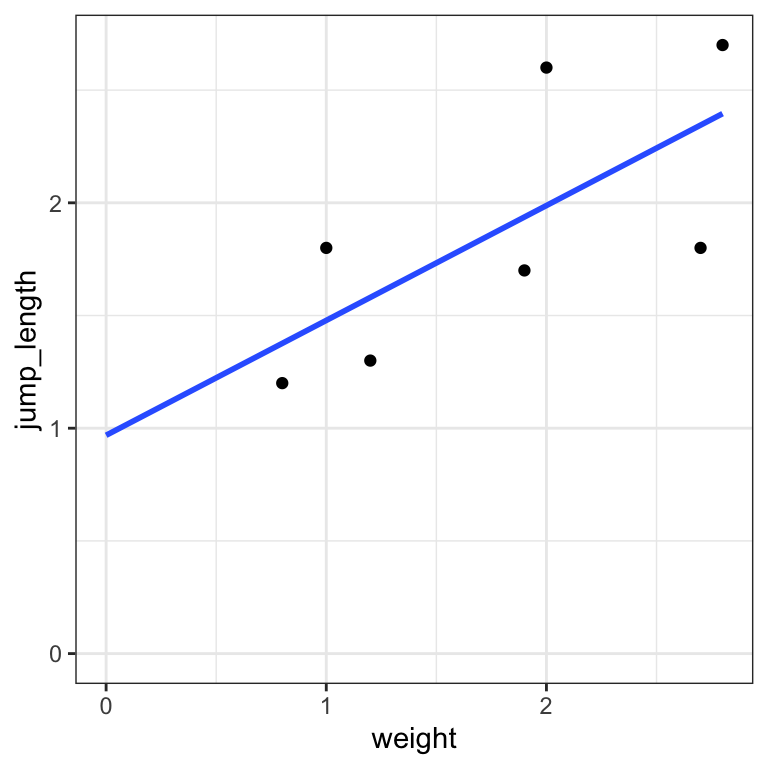
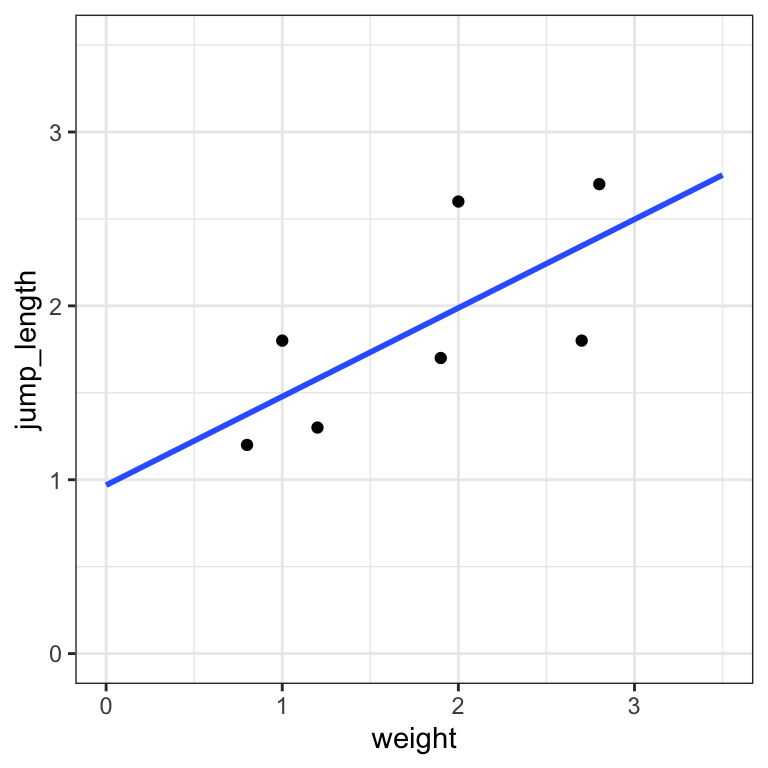
added first text to linear regression

diff --git a/docs/stat-linear-reg-basic.html b/docs/stat-linear-reg-basic.html
@@ -114,7 +114,7 @@ code span.wa { color: #60a0b0; font-weight: bold; font-style: italic; } /* Warni
   }
 }</script><script src="https://cdn.jsdelivr.net/npm/mathjax@3/es5/tex-chtml-full.js" type="text/javascript"></script>
 </head>
-<body class="nav-sidebar floating">
+<body class="nav-sidebar floating slimcontent">
 
 <div id="quarto-search-results"></div>
   <header id="quarto-header" class="headroom fixed-top"><nav class="quarto-secondary-nav" data-bs-toggle="collapse" data-bs-target="#quarto-sidebar" aria-controls="quarto-sidebar" aria-expanded="false" aria-label="Toggle sidebar navigation" onclick="if (window.quartoToggleHeadroom) { window.quartoToggleHeadroom(); }"><div class="container-fluid d-flex justify-content-between">
@@ -385,9 +385,9 @@ code span.wa { color: #60a0b0; font-weight: bold; font-style: italic; } /* Warni
   <ul>
 <li><a href="#genutzte-r-pakete-f%C3%BCr-das-kapitel" id="toc-genutzte-r-pakete-für-das-kapitel" class="nav-link active" data-scroll-target="#genutzte-r-pakete-f%C3%BCr-das-kapitel"> <span class="header-section-number">22.1</span> Genutzte R Pakete für das Kapitel</a></li>
   <li><a href="#daten" id="toc-daten" class="nav-link" data-scroll-target="#daten"> <span class="header-section-number">22.2</span> Daten</a></li>
-  <li><a href="#simples-modellieren-theoretisch" id="toc-simples-modellieren-theoretisch" class="nav-link" data-scroll-target="#simples-modellieren-theoretisch"> <span class="header-section-number">22.3</span> Simples Modellieren theoretisch</a></li>
+  <li><a href="#simple-lineare-regression-theoretisch" id="toc-simple-lineare-regression-theoretisch" class="nav-link" data-scroll-target="#simple-lineare-regression-theoretisch"> <span class="header-section-number">22.3</span> Simple lineare Regression theoretisch</a></li>
   <li>
-<a href="#simples-modellieren-in-r" id="toc-simples-modellieren-in-r" class="nav-link" data-scroll-target="#simples-modellieren-in-r"> <span class="header-section-number">22.4</span> Simples modellieren in R</a>
+<a href="#simples-lineare-regression-in-r" id="toc-simples-lineare-regression-in-r" class="nav-link" data-scroll-target="#simples-lineare-regression-in-r"> <span class="header-section-number">22.4</span> Simples lineare Regression in R</a>
   <ul class="collapse">
 <li><a href="#daten-1" id="toc-daten-1" class="nav-link" data-scroll-target="#daten-1"> <span class="header-section-number">22.4.1</span> Daten</a></li>
   </ul>
@@ -453,7 +453,7 @@ Ein Wort zur Klausur
 <p>Am Ende des Kapitels findest du nochmal den gesamten R Code in einem Rutsch zum selber durchführen oder aber kopieren.</p>
 </section><section id="daten" class="level2" data-number="22.2"><h2 data-number="22.2" class="anchored" data-anchor-id="daten">
 <span class="header-section-number">22.2</span> Daten</h2>
-<p>Wir wollen uns erstmal mit einem einfachen Datenbeispiel beschäftigen. Wir können die lineare Regression auf sehr großen Datensätzen anwenden, wie auch auf sehr kleinen Datensätzen. Prinzipiell ist das Vorgehen gleich. Wir nutzen jetzt aber erstmal einen kleinen Datensatz mit <span class="math inline">\(n=7\)</span> Beobachtungen. In der <a href="#tbl-model-0">Tabelle&nbsp;<span>22.1</span></a> ist der Datensatz <code>simplel_tbl</code> dargestellt. Wir wollen den Zusammenhang zwischen der Sprungweite in [cm] und dem Gewicht in [mg] für die ersten sieben Beobachtungen modellieren.</p>
+<p>Wir wollen uns erstmal mit einem einfachen Datenbeispiel beschäftigen. Wir können die lineare Regression auf sehr großen Datensätzen anwenden, wie auch auf sehr kleinen Datensätzen. Prinzipiell ist das Vorgehen gleich. Wir nutzen jetzt aber erstmal einen kleinen Datensatz mit <span class="math inline">\(n=7\)</span> Beobachtungen. In der <a href="#tbl-model-0">Tabelle&nbsp;<span>22.1</span></a> ist der Datensatz <code>simplel_tbl</code> dargestellt. Wir wollen den Zusammenhang zwischen der Sprungweite in [cm] und dem Gewicht in [mg] für sieben Beobachtungen modellieren.</p>
 <div class="cell">
 <div class="cell-output-display">
 <div id="tbl-model-0" class="anchored">
@@ -502,16 +502,16 @@ Ein Wort zur Klausur
 <div class="cell-output-display">
 <div id="fig-scatter-lin-01" class="quarto-figure quarto-figure-center anchored">
 <figure class="figure"><p><img src="stat-linear-reg-basic_files/figure-html/fig-scatter-lin-01-1.png" class="img-fluid figure-img" width="384"></p>
-<p></p><figcaption aria-hidden="true" class="figure-caption">Abbildung 22.1— Lineare Regression der Beobachtungen in dem tibble <code>simple_tbl</code>.</figcaption><p></p>
+<p></p><figcaption aria-hidden="true" class="figure-caption">Abbildung 22.1— Scatterplot der Beobachtungen der Sprungweite in [cm] und dem Gewicht in [mg]. Die Gerade verläuft mittig durch die Punkte.</figcaption><p></p>
 </figure>
 </div>
 </div>
 </div>
 <p><span class="aisde">Wir schauen uns in diesem Kapitel nur eine <em>simple</em> lineare Regression mit einem <span class="math inline">\(x_1\)</span> an. In unserem Fall ist das <span class="math inline">\(x_1\)</span> gleich dem <code>weight</code>. Später schauen wir dann <em>multiple</em> lineare Regressionen mit mehreren <span class="math inline">\(x_1,..., x_p\)</span> an</span></p>
-<p>Bevor wir mit dem Modellieren anfangen können, müssen wir verstehen, wie ein <em>simples</em> Modell theoretisch und dann in R aufgebaut ist. Danach machen wir uns darüber Gedanken, was wir eigentlich Modellieren.</p>
-</section><section id="simples-modellieren-theoretisch" class="level2 page-columns page-full" data-number="22.3"><h2 data-number="22.3" class="anchored" data-anchor-id="simples-modellieren-theoretisch">
-<span class="header-section-number">22.3</span> Simples Modellieren theoretisch</h2>
-<p>Wir haben nun die ersten sieben Beobachtungen in dem Objekt <code>simple_tbl</code> vorliegen. Wie sieht nun theoretisch eine lineare Regression aus? Wir wollen eine Grade durch Punkte legen. Und diese Gerade dann durch eine Geradengleichung beschreiben. Du kenst vermutlich noch die Form <span class="math inline">\(y = mx + b\)</span>. In der Statistik beschreiben wir eine solche Gerade wie folgt.</p>
+<p>Bevor wir mit dem Modellieren anfangen können, müssen wir verstehen, wie ein <em>simples</em> Modell theoretisch aufgebaut ist. Danach können wir uns das lineare Modell in R anschauen.</p>
+</section><section id="simple-lineare-regression-theoretisch" class="level2 page-columns page-full" data-number="22.3"><h2 data-number="22.3" class="anchored" data-anchor-id="simple-lineare-regression-theoretisch">
+<span class="header-section-number">22.3</span> Simple lineare Regression theoretisch</h2>
+<p>Wir haben nun die ersten sieben Beobachtungen in dem Objekt <code>simple_tbl</code> vorliegen. Wie sieht nun theoretisch eine lineare Regression aus? Wir wollen eine Grade durch Punkte legen, wie wie wir es in <a href="#fig-scatter-lin-01">Abbildung&nbsp;<span>22.1</span></a> sehen. Die blaue Gerade wir durch eine Geradengleichung beschreiben. Du kenst vermutlich noch die Form <span class="math inline">\(y = mx + b\)</span>. In der Statistik beschreiben wir eine solche Gerade aber wie folgt.</p>
 <p><span class="math display">\[
 y \sim \beta_0 + \beta_1 x_1 + \epsilon
 \]</span></p>
@@ -574,18 +574,18 @@ y \sim \beta_0 + \beta_1 x_1 + \epsilon
 <p></p><figcaption aria-hidden="true" class="figure-caption">Abbildung 22.2— Visualisierung der linearen Regression. Wir legen eine Gerade durch eine Punktewolke. Die Gerade wird durch die statistischen Maßzahlen bzw. Parameter <span class="math inline">\(\beta_0\)</span>, <span class="math inline">\(\beta_1\)</span> sowie den <span class="math inline">\(\epsilon\)</span> beschrieben.</figcaption><p></p>
 </figure>
 </div>
-<p>Schauen wir uns einmal den Zusammenhang in unserem Beispiel an. In <a href="#fig-scatter-lin-01">Abbildung&nbsp;<span>22.1</span></a> sehen wir den Scatterplot der Daten im Objekt <code>simple_tbl</code>.</p>
-<p><span class="math display">\[
-y \sim x_1
-\]</span></p>
+<div class="page-columns page-full"><p></p><div class="no-row-height column-margin column-container"><span class="aside">In R werden die <span class="math inline">\(\hat{y}\)</span> auch <em>fitted values</em> genannt. Die <span class="math inline">\(\epsilon\)</span> Werte werden dann <em>residuals</em> bezeichnet.</span></div></div>
+<p>Schauen wir uns einmal den Zusammenhang von <span class="math inline">\(y\)</span>, den beobachteten Werten, und <span class="math inline">\(\hat{y}\)</span>, den geschätzen Werten auf der Gerade in unserem Beispiel an. In <a href="#tbl-lin-reg-epsilon">Tabelle&nbsp;<span>22.3</span></a> sehen wir die Berechnung der einzelnen Residuen für die Gerade aus der <a href="#fig-scatter-lin-01">Abbildung&nbsp;<span>22.1</span></a>. Wir nehmen jedes beobachtete <span class="math inline">\(y\)</span> und ziehen den Wert von <span class="math inline">\(y\)</span> auf der Gerade, bezeichnet als <span class="math inline">\(\hat{y}\)</span>, ab. Diesen Schritt machen wir für jedes Wertepaar <span class="math inline">\((y_i; \hat{y}_i)\)</span>.</p>
 <div class="column-page">
+<div id="tbl-lin-reg-epsilon" class="anchored">
 <table class="table">
+<caption>Tabelle 22.3— Zusammenhang zwischen den <span class="math inline">\(y\)</span>, den beobachteten Werten, und <span class="math inline">\(\hat{y}\)</span>, den geschätzen Werten auf der Gerade. Wir nennen den Abstand <span class="math inline">\(y_i - \hat{y}_i\)</span> auch Residuum oder <em>Epsilon</em> <span class="math inline">\(\epsilon\)</span>.</caption>
 <colgroup>
-<col style="width: 5%">
-<col style="width: 6%">
-<col style="width: 21%">
-<col style="width: 32%">
+<col style="width: 4%">
+<col style="width: 4%">
+<col style="width: 22%">
 <col style="width: 34%">
+<col style="width: 33%">
 </colgroup>
 <thead><tr class="header">
 <th style="text-align: center;">x</th>
@@ -596,66 +596,64 @@ y \sim x_1
 </tr></thead>
 <tbody>
 <tr class="odd">
-<td style="text-align: center;">6.02</td>
-<td style="text-align: center;">16.93</td>
-<td style="text-align: center;">17.36</td>
+<td style="text-align: center;">0.8</td>
+<td style="text-align: center;">1.2</td>
+<td style="text-align: center;">1.38</td>
 <td style="text-align: center;"><span class="math inline">\(\epsilon_1 = y_1 - \hat{y}_1\)</span></td>
-<td style="text-align: center;"><span class="math inline">\(\epsilon_1 = 16.93 - 17.36 = -0.43\)</span></td>
+<td style="text-align: center;"><span class="math inline">\(\epsilon_1 = 1.2 - 1.38 = -0.18\)</span></td>
 </tr>
 <tr class="even">
-<td style="text-align: center;">5.99</td>
-<td style="text-align: center;">16.22</td>
-<td style="text-align: center;">17.37</td>
+<td style="text-align: center;">1.0</td>
+<td style="text-align: center;">1.8</td>
+<td style="text-align: center;">1.48</td>
 <td style="text-align: center;"><span class="math inline">\(\epsilon_2 = y_2 - \hat{y}_2\)</span></td>
-<td style="text-align: center;"><span class="math inline">\(\epsilon_2 = 16.22 - 17.37 = -1.15\)</span></td>
+<td style="text-align: center;"><span class="math inline">\(\epsilon_2 = 1.8 - 1.48 = +0.32\)</span></td>
 </tr>
 <tr class="odd">
-<td style="text-align: center;">8.05</td>
-<td style="text-align: center;">18.96</td>
-<td style="text-align: center;">16.64</td>
+<td style="text-align: center;">1.2</td>
+<td style="text-align: center;">1.3</td>
+<td style="text-align: center;">1.58</td>
 <td style="text-align: center;"><span class="math inline">\(\epsilon_3 = y_3 - \hat{y}_3\)</span></td>
-<td style="text-align: center;"><span class="math inline">\(\epsilon_3 = 18.96 - 16.64 = +2.32\)</span></td>
+<td style="text-align: center;"><span class="math inline">\(\epsilon_3 = 1.3 - 1.58 = -0.28\)</span></td>
 </tr>
 <tr class="even">
-<td style="text-align: center;">6.71</td>
-<td style="text-align: center;">19.83</td>
-<td style="text-align: center;">17.11</td>
+<td style="text-align: center;">1.9</td>
+<td style="text-align: center;">1.7</td>
+<td style="text-align: center;">1.94</td>
 <td style="text-align: center;"><span class="math inline">\(\epsilon_4 = y_4 - \hat{y}_4\)</span></td>
-<td style="text-align: center;"><span class="math inline">\(\epsilon_4 = 19.83 - 17.11 = +2.72\)</span></td>
+<td style="text-align: center;"><span class="math inline">\(\epsilon_4 = 1.7 - 1.94 = -0.24\)</span></td>
 </tr>
 <tr class="odd">
-<td style="text-align: center;">6.19</td>
-<td style="text-align: center;">17.37</td>
-<td style="text-align: center;">17.30</td>
+<td style="text-align: center;">2.0</td>
+<td style="text-align: center;">2.6</td>
+<td style="text-align: center;">1.99</td>
 <td style="text-align: center;"><span class="math inline">\(\epsilon_5 = y_5 - \hat{y}_5\)</span></td>
-<td style="text-align: center;"><span class="math inline">\(\epsilon_5 = 17.37 - 17.30 = +0.07\)</span></td>
+<td style="text-align: center;"><span class="math inline">\(\epsilon_5 = 2.6 - 1.99 = +0.61\)</span></td>
 </tr>
 <tr class="even">
-<td style="text-align: center;">8.18</td>
-<td style="text-align: center;">14.45</td>
-<td style="text-align: center;">16.59</td>
+<td style="text-align: center;">2.7</td>
+<td style="text-align: center;">1.8</td>
+<td style="text-align: center;">2.34</td>
 <td style="text-align: center;"><span class="math inline">\(\epsilon_6 = y_6 - \hat{y}_6\)</span></td>
-<td style="text-align: center;"><span class="math inline">\(\epsilon_6 = 14.45 - 16.59 = -2.14\)</span></td>
+<td style="text-align: center;"><span class="math inline">\(\epsilon_6 = 1.8 - 2.34 = -0.54\)</span></td>
 </tr>
 <tr class="odd">
-<td style="text-align: center;">7.46</td>
-<td style="text-align: center;">15.46</td>
-<td style="text-align: center;">16.85</td>
+<td style="text-align: center;">2.8</td>
+<td style="text-align: center;">2.7</td>
+<td style="text-align: center;">2.40</td>
 <td style="text-align: center;"><span class="math inline">\(\epsilon_7 = y_7 - \hat{y}_7\)</span></td>
-<td style="text-align: center;"><span class="math inline">\(\epsilon_7 = 15.46 - 16.85 = -1.39\)</span></td>
+<td style="text-align: center;"><span class="math inline">\(\epsilon_7 = 2.7 - 2.40 = +0.30\)</span></td>
 </tr>
 </tbody>
 </table>
 </div>
+</div>
 <div class="cell">
 
 </div>
-<p>Die Abweichungen <span class="math inline">\(\epsilon\)</span> oder auch Residuen genannt haben einen Mittelwert von <span class="math inline">\(\bar{\epsilon} = 0\)</span> und eine Varianz von <span class="math inline">\(s^2_{\epsilon} = 3.47\)</span>.</p>
-<p><span class="math display">\[
-\epsilon \sim \mathcal{N}(0, s^2_{\epsilon})
-\]</span></p>
-</section><section id="simples-modellieren-in-r" class="level2" data-number="22.4"><h2 data-number="22.4" class="anchored" data-anchor-id="simples-modellieren-in-r">
-<span class="header-section-number">22.4</span> Simples modellieren in R</h2>
+<p>Die Abweichungen <span class="math inline">\(\epsilon\)</span> oder auch Residuen genannt haben einen Mittelwert von <span class="math inline">\(\bar{\epsilon} = 0\)</span> und eine Varianz von <span class="math inline">\(s^2_{\epsilon} = 0.17\)</span>. Wir schreiben, dass die Residuen normalverteilt sind mit <span class="math inline">\(\epsilon \sim \mathcal{N}(0, s^2_{\epsilon})\)</span>.</p>
+</section><section id="simples-lineare-regression-in-r" class="level2" data-number="22.4"><h2 data-number="22.4" class="anchored" data-anchor-id="simples-lineare-regression-in-r">
+<span class="header-section-number">22.4</span> Simples lineare Regression in R</h2>
 <section id="daten-1" class="level3" data-number="22.4.1"><h3 data-number="22.4.1" class="anchored" data-anchor-id="daten-1">
 <span class="header-section-number">22.4.1</span> Daten</h3>
 <p>Wir wollen uns erszmal mit einem einfachen Datenbeispiel beschäftigen. Wir brauchen dafür den Datensatz <code>flea_dog_cat_length_weight.xlsx</code>. In einer simplen linearen Regression schauen wir uns den Zusammenhang zwischen einem <span class="math inline">\(y\)</span> und einem <span class="math inline">\(x_1\)</span> an. Daher wählen wir aus dem Datensatz <code>flea_dog_cat_length_weight.xlsx</code> die beiden Spalten <code>jump_length</code> und <code>weight</code>. Wir wollen nun feststellen, ob es einen Zusammenhang zwischen der Sprungweite in [cm] und dem Flohgewicht in [mg] gibt. In dem Datensatz finden wir 400 Flöhe, wir wollen uns aber nur die ersten sieben Zeilen des Datensatzes zuerst anschauen.</p>
@@ -668,7 +666,7 @@ y \sim x_1
 <div class="cell-output-display">
 <div id="tbl-model-1" class="anchored">
 <table class="table table-sm table-striped">
-<caption>Tabelle 22.3— Selektierter Datensatz mit einer normalverteilten Variable <code>jump_length</code> und der normalverteilten Variable <code>weight</code>. Es werden die ersten sieben Zeilen des Datensatzes benutzt.</caption>
+<caption>Tabelle 22.4— Selektierter Datensatz mit einer normalverteilten Variable <code>jump_length</code> und der normalverteilten Variable <code>weight</code>. Es werden die ersten sieben Zeilen des Datensatzes benutzt.</caption>
 <thead><tr class="header">
 <th style="text-align: center;">jump_length</th>
 <th style="text-align: center;">weight</th>
@@ -707,6 +705,9 @@ y \sim x_1
 </div>
 </div>
 </div>
+<p><span class="math display">\[
+y \sim x_1
+\]</span></p>
 <p><span class="math display">\[
 jump\_length \sim weight
 \]</span></p>
